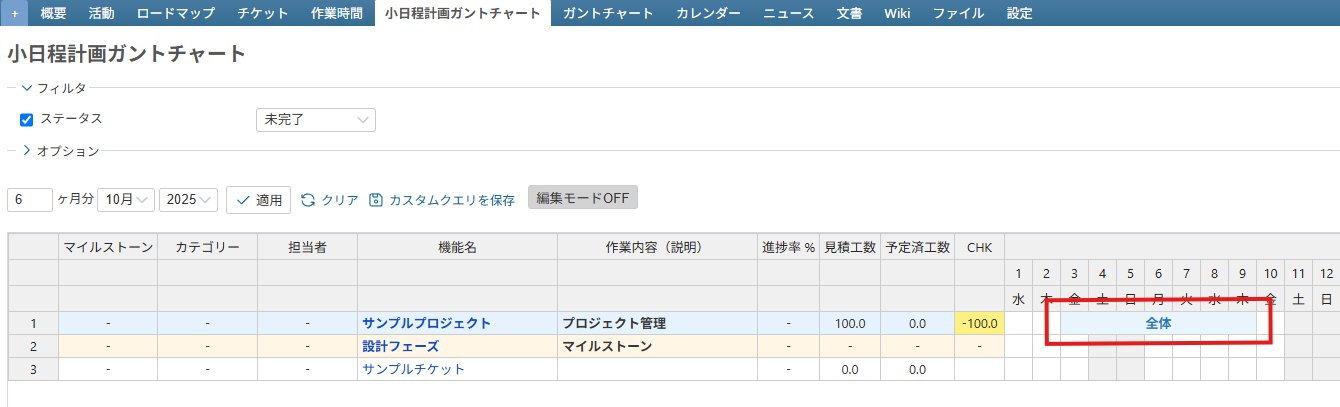
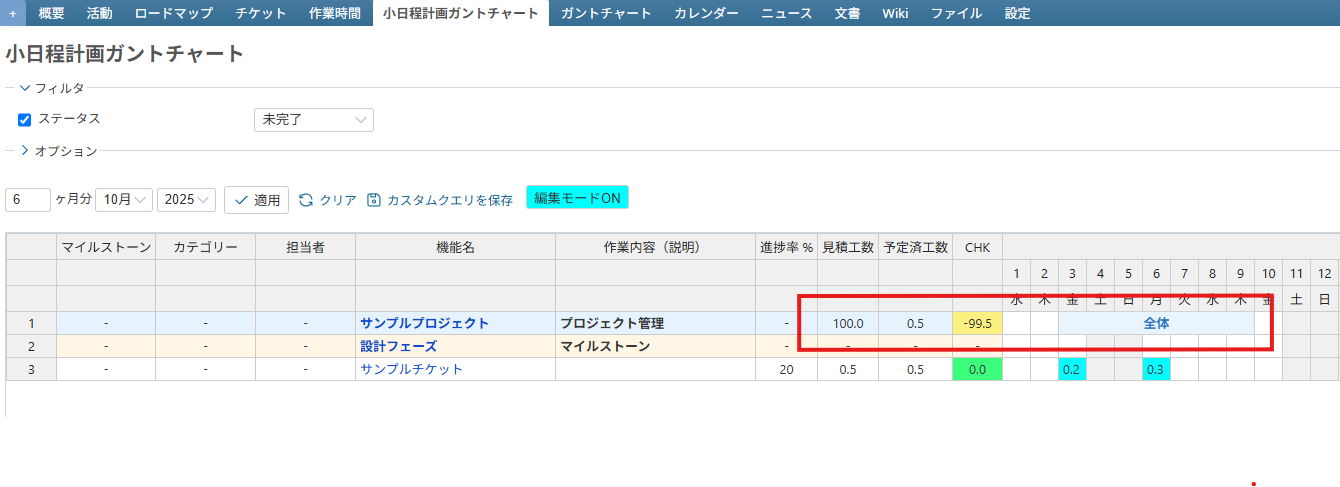
見積工数も含むように更新

diff --git a/README.md b/README.md
@@ -61,7 +61,7 @@
       ※見積工数にプロジェクトの見積の総工数を設定する
 ![プロジェクト詳細](image/README/project_detail.png)
 
-    - 開始日と期日に設定した期間がセルに表示される
+    - 開始日と期日に設定した期間および見積工数がセルに表示される
 ![プロジェクト管理行のセルをマージ](image/README/project_merge.png)
 
 5. 編集モードをONにする
